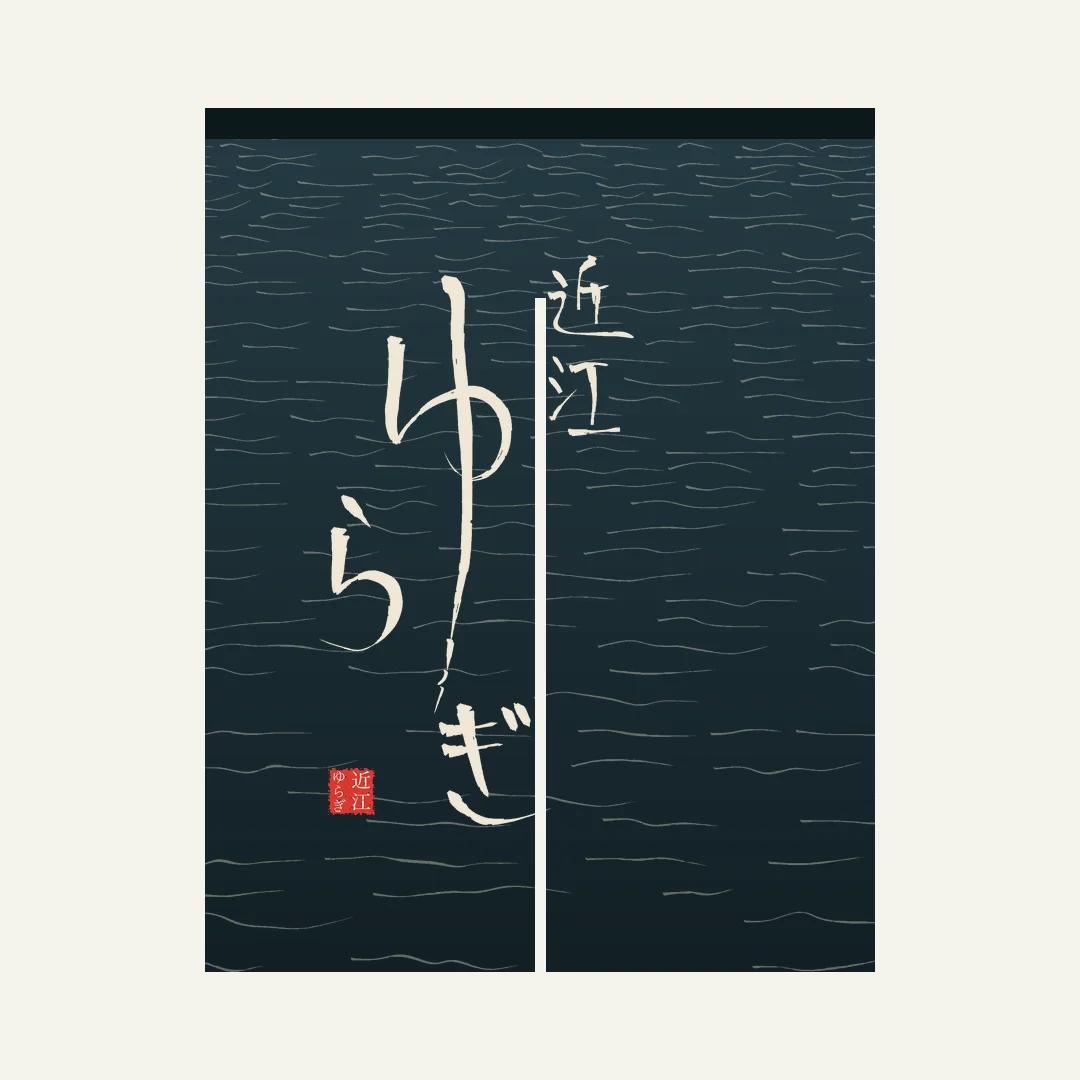
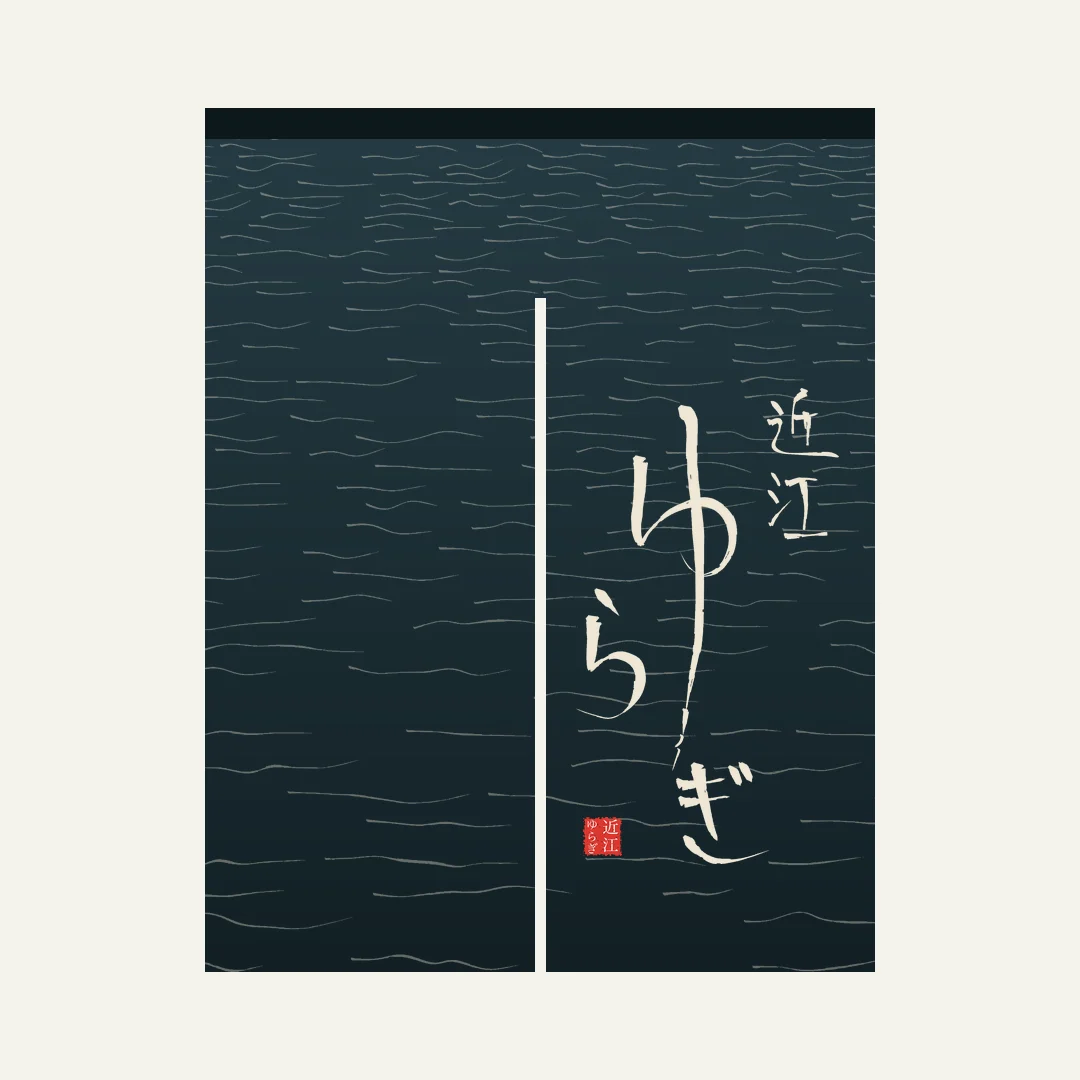
近江 ゆらぎ：のれんは右の布の版・ロゴページは湖とのれんを交互に・作品集は看板（住宅ホーム）の下へ
Claude-Session: https://claude.ai/code/session_01TDfKT4PukXAdTsPnPzqhA8

diff --git a/taka/index.html b/taka/index.html
@@ -506,6 +506,11 @@ main.list{max-width:1440px;margin:0 auto;padding-block:120px 160px}
     <img decoding="async" loading="lazy" width="1600" height="1080" src="img/jutaku.webp" alt="住宅ホーム" >
     <span class="cap"><b>住宅ホーム</b><span class="mono">LOGO / SIGN — PROPOSAL</span><span class="mono r">AD / DESIGN</span></span>
   </a>
+  <div class="w flip" data-k="type" data-tags="daiji">
+    <img decoding="async" width="1080" height="1080" src="img/omi-yuragi-lake.webp?v=20261116b" alt="近江 ゆらぎ" loading="lazy">
+    <img decoding="async" width="1080" height="1080" src="img/omi-yuragi-noren.webp?v=20261116b" alt="" class="flip-b" aria-hidden="true" loading="lazy">
+    <span class="cap"><b>近江 ゆらぎ</b><span class="mono">LOGO — BRUSH LETTERING</span><span class="mono r">DESIGN</span></span>
+  </div>
   <a href="https://99letters.bandcamp.com/album/kaibou-zukan" class="w" data-k="music" target="_blank" rel="noopener">
     <img decoding="async" loading="lazy" width="1200" height="850" src="img/99l_kaibou_zukan.webp" alt="99LETTERS『Kaibou Zukan』2LP" >
     <span class="cap"><b>99LETTERS — Kaibou Zukan</b><span class="mono">2LP — DISCIPLES（DISC18）/ 2022</span><span class="mono r">MUSIC / AD / PHOTO ・ LAYOUT: STUDIO TAPE-ECHO</span></span>
@@ -518,11 +523,6 @@ main.list{max-width:1440px;margin:0 auto;padding-block:120px 160px}
     <img decoding="async" loading="lazy" width="1200" height="849" src="img/ha.webp" alt="Kfn" >
     <span class="cap"><b>Kfn</b><span class="mono">LETTERING</span><span class="mono r">DESIGN</span></span>
   </a>
-  <div class="w flip" data-k="type" data-tags="daiji">
-    <img decoding="async" width="1080" height="1080" src="img/omi-yuragi-lake.webp?v=20261116" alt="近江 ゆらぎ" loading="lazy">
-    <img decoding="async" width="1080" height="1080" src="img/omi-yuragi-noren.webp?v=20261116" alt="" class="flip-b" aria-hidden="true" loading="lazy">
-    <span class="cap"><b>近江 ゆらぎ</b><span class="mono">LOGO — BRUSH LETTERING</span><span class="mono r">DESIGN</span></span>
-  </div>
   <a href="/flyer-poster-work.html" class="w" data-k="poster" data-tags="daiji">
     <img decoding="async" loading="lazy" width="900" height="1169" src="img/scratch.webp?v=20260925b" alt="スクラッチ" >
     <span class="cap"><b>スクラッチ</b><span class="mono">CINEMA POSTER</span><span class="mono r">AD / DESIGN</span></span>

diff --git a/branding-logo-work.html b/branding-logo-work.html
@@ -271,10 +271,9 @@
       <p class="work-desc">水の面が揺れるように、一画を細く長く引いた。</p>
     </div>
     <div class="work-visual">
-      <img src="assets/img/branding/omi-yuragi-lake.webp?v=20261116" alt="木下スタジオ（木下貴博 / 滋賀）自主制作：近江 ゆらぎ — 筆で書いたロゴを夜の湖の色に置いたもの" class="work-img-main" style="aspect-ratio:auto;height:auto" width="1080" height="1080" loading="lazy">
-      <div class="work-img-grid">
-        <img src="assets/img/branding/omi-yuragi-paper.webp?v=20261116" alt="木下スタジオ（木下貴博 / 滋賀）自主制作：近江 ゆらぎ — 紙に墨のロゴと角印" loading="lazy" style="aspect-ratio:auto">
-        <img src="assets/img/branding/omi-yuragi-noren.webp?v=20261116" alt="木下スタジオ（木下貴博 / 滋賀）自主制作：近江 ゆらぎ — 湖のゆらぎの柄で染めたのれん" loading="lazy" style="aspect-ratio:auto">
+      <div class="work-flip">
+        <img src="assets/img/branding/omi-yuragi-lake.webp?v=20261116b" alt="木下スタジオ（木下貴博 / 滋賀）自主制作：近江 ゆらぎ — 筆で書いたロゴを夜の湖の色に置いたもの" loading="lazy">
+        <img src="assets/img/branding/omi-yuragi-noren.webp?v=20261116b" alt="木下スタジオ（木下貴博 / 滋賀）自主制作：近江 ゆらぎ — 湖のゆらぎの柄で染めたのれん" class="flip-b" loading="lazy">
       </div>
     </div>
   </div>
